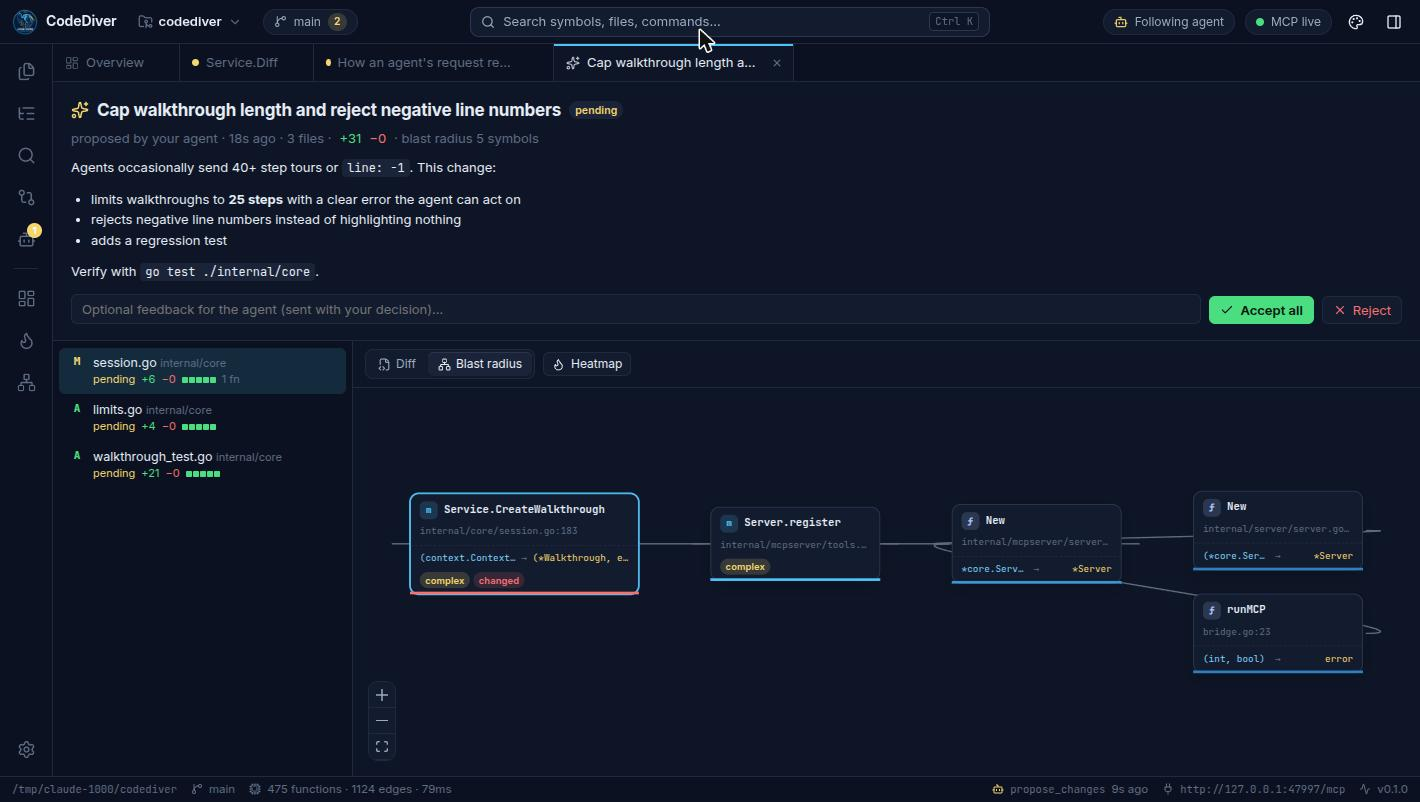
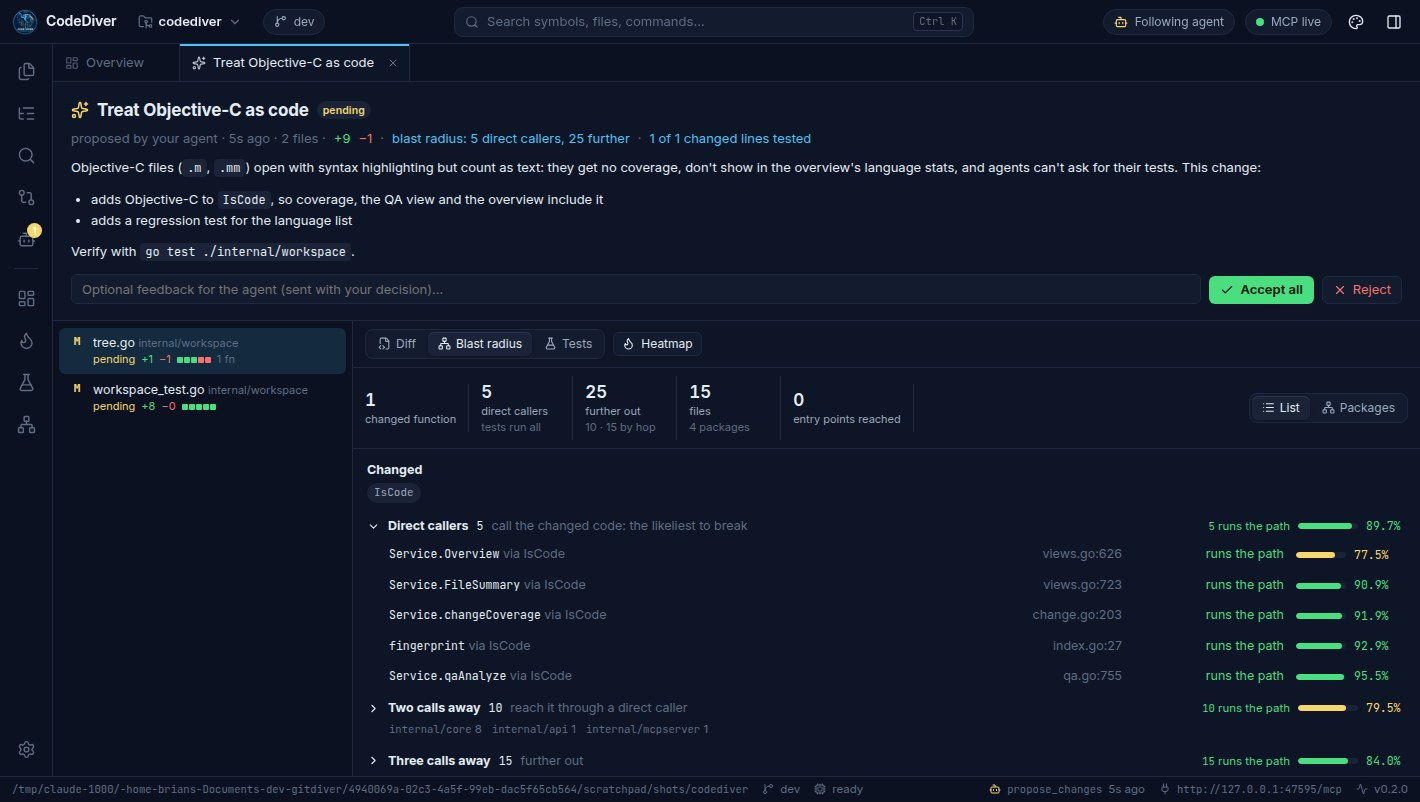
feat: update for the 0.2.0 release (#4)
- Hero: "New in 0.2: see which tests cover every change", linking the
  Decide section; static fallback says v0.2.0.
- Demos: "New in v0.2.0" instead of "Coming in the next release".
- Decide: the blast radius by distance with each caller's test status,
  and tests for the change; new screenshots of a proposal's blast
  radius (CodeDiver's own source), a working-tree review where the
  handler's call into Validate is flagged, and the Tests pane (the
  go-service example), all at 1420×802 in Deep Dive.
- Test: "Improved in v0.2.0", RSpec among detected suites, and a pointer
  to the per-change view.
- Connect: 35 tools, adding get_language_support, show_demo,
  show_animation, export_demo and get_tests_for_change to the grid.
- Language support: link to docs/LANGUAGES.md, also in the footer.
- Static release card (shown when the GitHub API is unreachable) is
  v0.2.0.

diff --git a/index.html b/index.html
@@ -50,7 +50,7 @@
     <section class="hero">
       <div class="wrap hero-grid">
         <div class="hero-copy">
-          <a class="release-pill" href="#qa"><span class="pill-tag">New</span> QA view: see what your tests cover</a>
+          <a class="release-pill" href="#review"><span class="pill-tag">New in 0.2</span> See which tests cover every change</a>
           <p class="eyebrow">Collaborative development with AI · Open source</p>
           <h1>Build with your agent, <span class="accent">side by side.</span></h1>
           <p class="lede">
@@ -63,7 +63,7 @@
             <a class="btn" href="#mcp">Connect your agent</a>
           </div>
           <p class="hero-note">Works with Claude Code, Cursor, VS Code, Claude Desktop, Codex — anything that speaks MCP. macOS, Windows and Linux.</p>
-          <p class="hero-note" id="hero-version"><a href="#releases">Latest release: v0.1.0</a></p>
+          <p class="hero-note" id="hero-version"><a href="#releases">Latest release: v0.2.0</a></p>
         </div>
         <figure class="hero-shot shot" data-full="assets/screens/walkthrough.jpg">
           <img src="assets/screens/walkthrough.jpg" alt="A CodeDiver walkthrough: a numbered list of steps, the agent's explanation, highlighted code and a map of the path between steps." width="1420" height="802" />
@@ -165,7 +165,7 @@
     <!-- ============================================================ DEMOS -->
     <section id="demos" class="feature-band alt">
       <div class="wrap">
-        <p class="kicker">Demos <span class="new-tag">Coming in the next release</span></p>
+        <p class="kicker">Demos <span class="new-tag">New in v0.2.0</span></p>
         <h2 class="section-title">Ask for a demo, get one</h2>
         <div class="split">
           <div class="split-copy">
@@ -250,7 +250,8 @@
             <p class="section-lede">Agents submit changes as <strong>proposals</strong>, and nothing touches your code until you accept. You review them visually, and your feedback goes straight back for the next round.</p>
             <ul class="checks">
               <li><strong>Side-by-side diffs</strong> with the agent's rationale for every file.</li>
-              <li><strong>Blast radius</strong> — the functions it touches and everything that calls them.</li>
+              <li><strong>Blast radius, closest first</strong> — direct callers in full, callers further out grouped by package, and the entry points the change reaches. Each caller says whether a test runs its call into the change, so you know what to check before you accept.</li>
+              <li><strong>Tests for the change</strong> — which changed lines tests run and which they don't, marked in the diff. Click <em>Run these tests</em> (Go and pytest) to see which test runs which line.</li>
               <li><strong>Accept or reject per file</strong>, with feedback that goes straight back to the agent.</li>
               <li><strong>Conflict-safe</strong> — if the file changed since the proposal, CodeDiver refuses to overwrite it.</li>
             </ul>
@@ -262,12 +263,23 @@
         </div>
         <div class="duo">
           <figure class="shot" data-full="assets/screens/proposal-impact.jpg">
-            <img src="assets/screens/proposal-impact.jpg" alt="The blast radius of a proposal: the changed function and its callers up the chain." width="1420" height="802" loading="lazy" />
-            <figcaption>Blast radius: who is affected by the change.</figcaption>
+            <img src="assets/screens/proposal-impact.jpg" alt="A proposal's blast radius, closest first: one changed function, five direct callers each marked 'runs the path' with its coverage, and 25 callers further out grouped by package." width="1420" height="802" loading="lazy" />
+            <figcaption>Blast radius, closest first: every direct caller of the change, and whether a test runs its call into it.</figcaption>
           </figure>
           <figure class="shot" data-full="assets/screens/review.jpg">
-            <img src="assets/screens/review.jpg" alt="Reviewing working-tree changes: changed files with the functions they touch, a diff, and the blast radius graph." width="1420" height="802" loading="lazy" />
-            <figcaption>Your own changes get the same treatment — any branch, commit or the working tree.</figcaption>
+            <img src="assets/screens/review.jpg" alt="Reviewing a working-tree change: the diff of Validate, and a blast radius where the direct caller Handler.CreateOrder is flagged 'call not run' and the summary says 1 to review." width="1420" height="802" loading="lazy" />
+            <figcaption>Your own changes get the same treatment. Here the handler runs in tests, but never its call into <code>Validate</code>: flagged for review.</figcaption>
+          </figure>
+        </div>
+        <div class="split reverse">
+          <div class="split-copy">
+            <h3 class="sub-title">Which tests cover the change</h3>
+            <p>Next to every diff: how many changed lines tests run, which lines no test runs, and the tests that call or reach the changed code. Click <em>Run these tests</em> to measure which test runs which line, or ask your agent to write the missing ones.</p>
+            <p class="fine">Agents see the same report with <code>get_tests_for_change</code>, for a proposal, the working tree or any commit.</p>
+          </div>
+          <figure class="shot" data-full="assets/screens/qa-change-tests.jpg">
+            <img src="assets/screens/qa-change-tests.jpg" alt="The Tests pane under a diff: 0 of 1 changed lines covered by tests, the line no test runs, and the two tests that call or reach the changed function, with Run these tests and Ask agent for tests buttons." width="1420" height="802" loading="lazy" />
+            <figcaption>The changed line no test runs, and the two tests that reach the changed function.</figcaption>
           </figure>
         </div>
       </div>
@@ -276,17 +288,18 @@
     <!-- ============================================================ QA -->
     <section id="qa" class="feature-band">
       <div class="wrap">
-        <p class="kicker">Test <span class="new-tag">New in v0.1.1</span></p>
+        <p class="kicker">Test <span class="new-tag">Improved in v0.2.0</span></p>
         <h2 class="section-title">Know what your tests actually cover</h2>
         <div class="split">
           <div class="split-copy">
             <p class="section-lede">Agents write tests fast. CodeDiver shows you whether they test what matters, and what's still exposed.</p>
             <ul class="checks">
-              <li><strong>Real line coverage</strong> from your own tooling: Go, Vitest, Jest, pytest, Cargo, Maven, Gradle and .NET are detected, or import an LCOV, Cobertura, JaCoCo or Go report you already have.</li>
+              <li><strong>Real line coverage</strong> from your own tooling: Go, Vitest, Jest, pytest, RSpec, Cargo, Maven, Gradle and .NET are detected, or import an LCOV, Cobertura, JaCoCo or Go report you already have.</li>
               <li><strong>Gaps ranked by risk</strong>: uncovered code weighted by complexity and how many callers depend on it.</li>
               <li><strong>Why it's hard to test</strong>: hard-wired clocks, network, filesystem, env vars, processes and sleeps, each with the refactor that fixes it.</li>
               <li><strong>Tests that reach it</strong>, directly or through its callers, so you don't write the same test twice.</li>
             </ul>
+            <p class="fine">Reviewing a change? Its tests and their coverage open next to the diff. <a href="#review">See Decide →</a></p>
           </div>
           <figure class="shot" data-full="assets/screens/qa-gaps.jpg">
             <img src="assets/screens/qa-gaps.jpg" alt="The QA view's Gaps tab: functions ranked by risk with coverage bars, and the selected function's uncovered lines, a filesystem testability hint and the tests that reach it." width="1420" height="802" loading="lazy" />
@@ -382,7 +395,7 @@
         <p class="kicker">Connect</p>
         <h2 class="section-title">Works with the agent you already use</h2>
         <p class="section-lede">
-          CodeDiver runs a local MCP server with 30 tools for seeing, explaining, proposing and testing.
+          CodeDiver runs a local MCP server with 35 tools for seeing, explaining, proposing and testing.
           Add it to your agent with one line.
         </p>
 
@@ -415,7 +428,7 @@ args = ["mcp"]</code></pre><button class="copy" type="button">Copy</button></div
           </figure>
         </div>
         <details class="tool-details">
-          <summary>See all 30 tools</summary>
+          <summary>See all 35 tools</summary>
         <div class="tool-grid">
           <div class="tool-group">
             <h4>Understand context</h4>
@@ -437,6 +450,7 @@ args = ["mcp"]</code></pre><button class="copy" type="button">Copy</button></div
               <li><code>get_function_flow</code> the control-flow graph of a function</li>
               <li><code>get_dependencies</code> · <code>get_types</code></li>
               <li><code>git_diff</code> · <code>git_log</code> · <code>git_status</code> · <code>get_heatmap</code></li>
+              <li><code>get_language_support</code> how precise the analysis is for each language</li>
             </ul>
           </div>
           <div class="tool-group">
@@ -448,6 +462,7 @@ args = ["mcp"]</code></pre><button class="copy" type="button">Copy</button></div
               <li><code>show_diagram</code> Mermaid or interactive diagrams linked to code</li>
               <li><code>annotate_code</code> inline notes in the editor</li>
               <li><code>show_code</code> open a file and highlight what matters</li>
+              <li><code>show_demo</code> · <code>show_animation</code> · <code>export_demo</code> animated demos, and images of them</li>
             </ul>
           </div>
           <div class="tool-group">
@@ -466,6 +481,7 @@ args = ["mcp"]</code></pre><button class="copy" type="button">Copy</button></div
               <li><code>get_test_overview</code> coverage, tests and the riskiest gaps</li>
               <li><code>get_coverage</code> uncovered lines per file and function</li>
               <li><code>get_tests_for</code> which tests reach a function, and what they check</li>
+              <li><code>get_tests_for_change</code> which tests cover a proposal, the working tree or a commit</li>
               <li><code>find_test_gaps</code> untested code ranked by risk, with what makes it hard to test</li>
               <li><code>show_test_plan</code> behaviors to cover and refactors needed, on your screen</li>
             </ul>
@@ -514,6 +530,7 @@ args = ["mcp"]</code></pre><button class="copy" type="button">Copy</button></div
             <p>Syntax highlighting, search, git history and diffs, heatmaps, proposals, walkthroughs and agent explanations.</p>
           </div>
         </div>
+        <p class="fine center"><a href="https://github.com/aitakemyjob/codediver/blob/main/docs/LANGUAGES.md">What's precise, what's matched by name (~), and the known gaps for each language →</a></p>
       </div>
     </section>
 
@@ -526,15 +543,15 @@ args = ["mcp"]</code></pre><button class="copy" type="button">Copy</button></div
         <div class="release-grid" id="release-grid">
           <article class="release-card latest">
             <div class="release-head">
-              <h3><a href="https://github.com/aitakemyjob/codediver/releases/tag/v0.1.0">v0.1.0</a></h3>
+              <h3><a href="https://github.com/aitakemyjob/codediver/releases/tag/v0.2.0">v0.2.0</a></h3>
               <span class="badge stable">Latest</span>
-              <span class="release-date">October 16, 2026</span>
+              <span class="release-date">October 20, 2026</span>
             </div>
-            <p class="release-sub">The first release.</p>
+            <p class="release-sub">Demos, and tests for every change.</p>
             <ul class="release-notes">
-              <li>Desktop app with a built-in MCP server for Claude Code, Cursor, VS Code, Claude Desktop and Codex</li>
-              <li>Walkthroughs, function logic, trace-to-here, call graphs, heatmaps and visual review of agent proposals</li>
-              <li>Installers for macOS, Windows and Linux (x64 and ARM64), plus a headless server</li>
+              <li>Animated demos and free-form animations from your agent, exported as PNG, SVG or PDF</li>
+              <li>Tests for every change: the blast radius by distance with each caller's test status, and per-test coverage</li>
+              <li>Language support docs for agents and people, and sharper call graphs for TypeScript, Java, C#, Kotlin, Rust and Python</li>
             </ul>
             <div class="release-downloads">
               <a class="dl" href="https://github.com/aitakemyjob/codediver/releases/latest">All downloads</a>
@@ -587,11 +604,12 @@ args = ["mcp"]</code></pre><button class="copy" type="button">Copy</button></div
       <nav aria-label="Footer">
         <a href="https://github.com/aitakemyjob/codediver">GitHub</a>
         <a href="https://github.com/aitakemyjob/codediver/blob/main/docs/MCP.md">MCP reference</a>
+        <a href="https://github.com/aitakemyjob/codediver/blob/main/docs/LANGUAGES.md">Language support</a>
         <a href="https://github.com/aitakemyjob/codediver/blob/main/docs/ARCHITECTURE.md">Architecture</a>
         <a href="https://github.com/aitakemyjob/codediver/blob/main/CONTRIBUTING.md">Contributing</a>
         <a href="https://github.com/aitakemyjob/codediver/discussions">Discussions</a>
       </nav>
-      <p class="fine">MIT licensed. Screenshots show CodeDiver exploring its own source code.</p>
+      <p class="fine">MIT licensed. Screenshots show CodeDiver exploring its own source code and its example projects.</p>
     </div>
   </footer>
 

diff --git a/README.md b/README.md
@@ -25,7 +25,7 @@ The **Releases** section and the hero's "Latest release" line are filled in
 at load time from the GitHub API (`/repos/aitakemyjob/codediver/releases`),
 cached for ten minutes per browser session. Each card shows GitHub's
 generated "What's Changed" list and direct download links. If the API is
-unreachable, the static v0.1.0 card in `index.html` stays in place.
+unreachable, the static v0.2.0 card in `index.html` stays in place.
 
 ## Style
 
